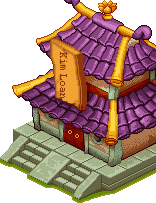
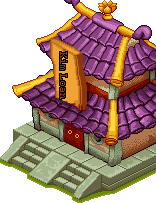
tsky: lưu tạm tiến độ T7/T8b
Claude-Session: https://claude.ai/code/session_01UHwqGer2W7xK9ARAi6GfrR

Changed region(s): [[0.359, 0.2365, 0.4359, 0.5025]]

diff --git a/tsky/patcher/Patch.java b/tsky/patcher/Patch.java
@@ -128,6 +128,17 @@ public class Patch {
             int w = want == null ? 0 : want[i];
             if (n != w || n > 0) expect(name + " " + CALLS[i][1], n, w);
         }
+        if (name.equals("Main/j")) {
+            patchMainJ(cn);
+            changed = true;
+        } else if (name.equals("Main/e")) {
+            patchShop(cn);
+            changed = true;
+        }
+        if (name.equals("Main/j") || name.equals("Main/e") || name.equals("rf/b")) {
+            int c = cacheConcat(cn);
+            if (c > 0) changed = true;
+        }
         return changed;
     }
 
@@ -239,6 +250,210 @@ public class Patch {
         if (op == Opcodes.LDC && ((LdcInsnNode) x).cst instanceof Integer) return (Integer) ((LdcInsnNode) x).cst;
         return Integer.MIN_VALUE;
     }
+
+    // ===================================================================== T7: bo cuc
+    static MethodInsnNode vhCall(String name, String desc) {
+        return new MethodInsnNode(Opcodes.INVOKESTATIC, VH, name, desc, false);
+    }
+
+    /** Doi cac call VH.drawString trong method (name, (Graphics)V) thanh VH.<to>; phai dung `want` lan. */
+    static void retarget(ClassNode cn, String mname, String to, int want) {
+        MethodNode m = method(cn, mname, "(L" + G + ";)V");
+        int n = 0;
+        for (AbstractInsnNode x = m.instructions.getFirst(); x != null; x = x.getNext()) {
+            if (x instanceof MethodInsnNode && x.getOpcode() == Opcodes.INVOKESTATIC) {
+                MethodInsnNode mi = (MethodInsnNode) x;
+                if (mi.owner.equals(VH) && mi.name.equals("drawString")) {
+                    mi.name = to;
+                    n++;
+                }
+            }
+        }
+        expect(cn.name + "." + mname + " drawString -> VH." + to, n, want);
+    }
+
+    static void patchMainJ(ClassNode cn) {
+        // phim mem phai ("Thoat"/"Quay lai", x = t - k.w*2 - 1) va "Tam dung" (x = t/2 - k.w): can theo do rong that
+        retarget(cn, "y", "drawRight", 1);
+        retarget(cn, "z", "drawRight", 1);
+        retarget(cn, "i", "drawMid", 1);
+
+        // menu chinh f(Graphics): (1) bo muc 2 ("Game khac", platformRequest quang cao), (2) mui ten theo nhan dang chon
+        MethodNode f = method(cn, "f", "(L" + G + ";)V");
+        InsnList pre = new InsnList();
+        pre.add(new VarInsnNode(Opcodes.ALOAD, 0));
+        pre.add(new VarInsnNode(Opcodes.ALOAD, 0));
+        pre.add(new FieldInsnNode(Opcodes.GETFIELD, "Main/j", "cR", "I"));
+        String[] busy = {"bS", "bX", "bC", "bk", "bs", "bL"};
+        for (int i = 0; i < busy.length; i++) {
+            pre.add(new FieldInsnNode(Opcodes.GETSTATIC, "Main/j", busy[i], "Z"));
+            if (i > 0) pre.add(new InsnNode(Opcodes.IOR));
+        }
+        pre.add(vhCall("menuSkip", "(II)I"));
+        pre.add(new FieldInsnNode(Opcodes.PUTFIELD, "Main/j", "cR", "I"));
+        f.instructions.insert(pre);
+        int arrows = 0;
+        for (AbstractInsnNode x = f.instructions.getFirst(); x != null; x = x.getNext()) {
+            if (x.getOpcode() == Opcodes.ALOAD && ((VarInsnNode) x).var == 2) {
+                AbstractInsnNode a1 = x.getNext();
+                AbstractInsnNode a2 = a1 == null ? null : a1.getNext();
+                AbstractInsnNode a3 = a2 == null ? null : a2.getNext();
+                if (a1 != null && a1.getOpcode() == Opcodes.ICONST_1 && a2 != null && a2.getOpcode() == Opcodes.AALOAD
+                        && a3 != null && a3.getOpcode() == Opcodes.INVOKESTATIC && ((MethodInsnNode) a3).name.equals("stringWidth")) {
+                    InsnList r = new InsnList();
+                    r.add(new VarInsnNode(Opcodes.ALOAD, 0));
+                    r.add(new FieldInsnNode(Opcodes.GETFIELD, "Main/j", "cR", "I"));
+                    f.instructions.insert(a1, r);
+                    f.instructions.remove(a1);
+                    arrows++;
+                }
+            }
+        }
+        expect("Main/j.f: mui ten menu theo nhan dang chon", arrows, 2);
+
+        // o mo ta cuon doc a(G,String,IIIII)V: cuon theo trang (hang + thay trang), khong cat nua dong
+        MethodNode a = method(cn, "a", "(L" + G + ";" + STR + "IIIII)V");
+        clearBody(a);
+        InsnList L = new InsnList();
+        LabelNode skip = new LabelNode();
+        // g=1 s=2 w=3 h=4 x=5 y=6 color=7
+        L.add(new VarInsnNode(Opcodes.ALOAD, 1));
+        L.add(new VarInsnNode(Opcodes.ILOAD, 5));
+        L.add(new VarInsnNode(Opcodes.ILOAD, 6));
+        L.add(new VarInsnNode(Opcodes.ILOAD, 3));
+        L.add(new VarInsnNode(Opcodes.ILOAD, 4));
+        L.add(new MethodInsnNode(Opcodes.INVOKEVIRTUAL, G, "setClip", "(IIII)V", false));
+        L.add(new FieldInsnNode(Opcodes.GETSTATIC, "Main/j", "bE", "Z"));
+        L.add(new JumpInsnNode(Opcodes.IFEQ, skip));
+        L.add(new VarInsnNode(Opcodes.ALOAD, 2));
+        L.add(new VarInsnNode(Opcodes.ILOAD, 3));
+        L.add(new MethodInsnNode(Opcodes.INVOKESTATIC, "rf/b", "a", "(" + STR + "I)V", false));
+        L.add(new InsnNode(Opcodes.ICONST_0));
+        L.add(new FieldInsnNode(Opcodes.PUTSTATIC, "Main/j", "bE", "Z"));
+        L.add(new InsnNode(Opcodes.ICONST_0));
+        L.add(new FieldInsnNode(Opcodes.PUTSTATIC, "Main/j", "cW", "I"));
+        L.add(new VarInsnNode(Opcodes.ALOAD, 0));
+        L.add(new InsnNode(Opcodes.ICONST_0));
+        L.add(new FieldInsnNode(Opcodes.PUTFIELD, "Main/j", "X", "I"));
+        L.add(skip);
+        L.add(new VarInsnNode(Opcodes.ALOAD, 0));
+        L.add(new VarInsnNode(Opcodes.ALOAD, 1));
+        L.add(new FieldInsnNode(Opcodes.GETSTATIC, "rf/b", "c", "[" + STR));
+        L.add(new FieldInsnNode(Opcodes.GETSTATIC, "rf/b", "e", "I"));
+        L.add(new VarInsnNode(Opcodes.ILOAD, 5));
+        L.add(new VarInsnNode(Opcodes.ILOAD, 6));
+        L.add(new VarInsnNode(Opcodes.ILOAD, 3));
+        L.add(new VarInsnNode(Opcodes.ILOAD, 4));
+        L.add(new VarInsnNode(Opcodes.ILOAD, 7));
+        L.add(new VarInsnNode(Opcodes.ALOAD, 0));
+        L.add(new FieldInsnNode(Opcodes.GETFIELD, "Main/j", "X", "I"));
+        L.add(vhCall("scroll", "(L" + G + ";[" + STR + "IIIIIII" + "I)I"));
+        L.add(new FieldInsnNode(Opcodes.PUTFIELD, "Main/j", "X", "I"));
+        L.add(new InsnNode(Opcodes.RETURN));
+        a.instructions = L;
+        log.println("BODY Main/j.a(G,String,IIIII) -> VH.scroll (cuon theo trang)");
+    }
+
+    /** Cua hang Main/e.a(G,String[][],...): cot so luong/gia dat sau ten DAI NHAT (khong phai ten hang dau). */
+    static void patchShop(ClassNode cn) {
+        MethodNode m = method(cn, "a", "(L" + G + ";[[" + STR + "IIIIIIZI)I");
+        int n = 0;
+        for (AbstractInsnNode x = m.instructions.getFirst(); x != null; x = x.getNext()) {
+            if (x.getOpcode() == Opcodes.ALOAD && ((VarInsnNode) x).var == 2) {
+                AbstractInsnNode a1 = x.getNext(), a2 = a1 == null ? null : a1.getNext(), a3 = a2 == null ? null : a2.getNext(),
+                        a4 = a3 == null ? null : a3.getNext(), a5 = a4 == null ? null : a4.getNext();
+                if (a1 != null && a1.getOpcode() == Opcodes.ICONST_0 && a2 != null && a2.getOpcode() == Opcodes.AALOAD
+                        && a3 != null && a3.getOpcode() == Opcodes.ICONST_0 && a4 != null && a4.getOpcode() == Opcodes.AALOAD
+                        && a5 != null && a5.getOpcode() == Opcodes.INVOKESTATIC && ((MethodInsnNode) a5).name.equals("stringWidth")) {
+                    InsnList r = new InsnList();
+                    r.add(new InsnNode(Opcodes.ICONST_0));
+                    r.add(vhCall("widest", "([[" + STR + "I)" + STR));
+                    m.instructions.insert(a4, r);
+                    m.instructions.remove(a1);
+                    m.instructions.remove(a2);
+                    m.instructions.remove(a3);
+                    m.instructions.remove(a4);
+                    n++;
+                }
+            }
+        }
+        expect("Main/e.a(String[][]): cot theo ten dai nhat", n, 1);
+    }
+
+    /**
+     * Noi chuoi toan String ("a" + b + "^") moi khung hinh: thay chuoi new StringBuffer().append(S)...toString() bang
+     * VH.catN(a,b,..,slot): neu cac phan tu giu nguyen (so sanh tham chieu) thi tra lai ket qua da noi (khong cap phat).
+     * Chi xu ly chuoi chi co append(String) voi doi so la 1 lenh don (LDC/ALOAD/GETSTATIC/this.field).
+     */
+    static int catSlots = 0;
+
+    static int cacheConcat(ClassNode cn) {
+        int total = 0;
+        String sb = "java/lang/StringBuffer";
+        for (MethodNode m : cn.methods) {
+            AbstractInsnNode x = m.instructions.getFirst();
+            while (x != null) {
+                AbstractInsnNode nx = x.getNext();
+                if (x.getOpcode() == Opcodes.NEW && ((TypeInsnNode) x).desc.equals(sb)) {
+                    AbstractInsnNode d = next(x), ini = d == null ? null : next(d);
+                    if (d != null && d.getOpcode() == Opcodes.DUP && ini != null && isCall(ini, Opcodes.INVOKESPECIAL, sb, "<init>", "()V")) {
+                        List<InsnList> args = new ArrayList<>();
+                        List<AbstractInsnNode> all = new ArrayList<>();
+                        AbstractInsnNode c = next(ini);
+                        boolean ok = true;
+                        AbstractInsnNode end = null;
+                        while (ok) {
+                            // doi so: 1 lenh (LDC String / ALOAD / GETSTATIC) hoac ALOAD0+GETFIELD
+                            List<AbstractInsnNode> g = new ArrayList<>();
+                            AbstractInsnNode a = c;
+                            if (a == null) { ok = false; break; }
+                            int op = a.getOpcode();
+                            if (op == Opcodes.LDC && ((LdcInsnNode) a).cst instanceof String) { g.add(a); c = next(a); }
+                            else if (op == Opcodes.ALOAD && ((VarInsnNode) a).var != 0) { g.add(a); c = next(a); }
+                            else if (op == Opcodes.GETSTATIC && ((FieldInsnNode) a).desc.equals(STR)) { g.add(a); c = next(a); }
+                            else if (op == Opcodes.ALOAD && ((VarInsnNode) a).var == 0 && next(a) != null && next(a).getOpcode() == Opcodes.GETFIELD
+                                    && ((FieldInsnNode) next(a)).desc.equals(STR)) { g.add(a); g.add(next(a)); c = next(next(a)); }
+                            else { ok = false; break; }
+                            if (c == null || !isCall(c, Opcodes.INVOKEVIRTUAL, sb, "append", "(" + STR + ")L" + sb + ";")) { ok = false; break; }
+                            InsnList il = new InsnList();
+                            for (AbstractInsnNode q : g) all.add(q);
+                            args.add(null);
+                            all.add(c);
+                            c = next(c);
+                            if (c != null && isCall(c, Opcodes.INVOKEVIRTUAL, sb, "toString", "()" + STR)) { end = c; break; }
+                        }
+                        if (ok && end != null && args.size() >= 2 && args.size() <= 4) {
+                            // gom lenh doi so (bo cac append)
+                            List<AbstractInsnNode> keep = new ArrayList<>();
+                            for (AbstractInsnNode q : all) if (!(q instanceof MethodInsnNode)) keep.add(q);
+                            InsnList rep = new InsnList();
+                            // doi so duoc giu nguyen thu tu; dem cho du 4 doi so
+                            for (AbstractInsnNode q : keep) {
+                                m.instructions.remove(q);
+                                rep.add(q);
+                            }
+                            for (int i = args.size(); i < 4; i++) rep.add(new InsnNode(Opcodes.ACONST_NULL));
+                            rep.add(new LdcInsnNode(catSlots++));
+                            rep.add(vhCall("cat", "(" + STR + STR + STR + STR + "I)" + STR));
+                            m.instructions.insertBefore(x, rep);
+                            // xoa new/dup/init + cac append + toString
+                            for (AbstractInsnNode q : all) if (q instanceof MethodInsnNode) m.instructions.remove(q);
+                            m.instructions.remove(end);
+                            m.instructions.remove(ini);
+                            m.instructions.remove(d);
+                            nx = x.getNext();
+                            m.instructions.remove(x);
+                            total++;
+                        }
+                    }
+                }
+                x = nx;
+            }
+        }
+        log.println("cacheConcat " + cn.name + ": " + total);
+        return total;
+    }
+
     // ===================================================================== Main/f: khoi dong (QD 9)
     /**
      * - c(): chi nap /Image/namp.png (VH.logo()) vao this.h, bo bg/logo0-5/logo51/52/menu thu nho.

diff --git a/tsky/scripts/make_img.py b/tsky/scripts/make_img.py
@@ -11,6 +11,7 @@ ROOT = os.path.dirname(os.path.dirname(os.path.abspath(__file__)))
 SRC = os.path.join(ROOT, 'work/x/Image')
 DST = os.path.join(ROOT, 'res_vi/Image')
 SIZE = 12
+OUTLINE = '#000000'   # viền đen 1px 8 hướng theo yêu cầu người dùng (đặt None để tắt)
 CHECK = []   # mọi nhãn để chạy pixeltext check
 
 class Img:
@@ -64,7 +65,7 @@ class Img:
     def text(self, box, txt, color, mode='metric', align='center', valign='center', dx=0, dy=0):
         CHECK.append(txt)
         r = R.draw(self.im, box, txt, size=SIZE, mode=mode, gap=1, align=align, valign=valign,
-                   dx=dx, dy=dy, fill=color + (255,) if len(color) == 3 else color, outline=None, clip=True)
+                   dx=dx, dy=dy, fill=color + (255,) if len(color) == 3 else color, outline=OUTLINE, outline_diag=True, clip=True)
         if r['overflow_x'] or r['overflow_y']:
             print('  TRÀN', self.name, txt, box, r)
         return r
@@ -72,7 +73,7 @@ class Img:
     def text_rot(self, box, txt, color, mode='metric'):
         """chữ xoay 90 độ theo chiều kim đồng hồ (biển dọc), canh giữa trong box"""
         CHECK.append(txt)
-        t = R.render(txt, SIZE, mode, 1, trim=True, fill=color + (255,))
+        t = R.render(txt, SIZE, mode, 1, trim=True, fill=color + (255,), outline=OUTLINE, outline_diag=True)
         t = t.rotate(-90, expand=True)
         x0, y0, w, h = box
         if t.width > w or t.height > h:
@@ -155,7 +156,7 @@ def main():
     done(im)
     im = Img('ui_fight_mid')
     xs = [0, 29, 58, 86, 115, 144, 173]
-    for i, (t, c) in enumerate([('Thay',(31,131,255)),('Chạy',(54,143,0)),('Sủng',(31,131,255)),
+    for i, (t, c) in enumerate([('Đổi',(31,131,255)),('Chạy',(54,143,0)),('Sủng',(31,131,255)),
                                 ('Vật',(31,131,255)),('Đánh',(31,131,255)),('Phá',(255,121,1))]):
         b = (xs[i], 0, xs[i+1]-xs[i], 28); im.clear(b); im.text(b, t, c)
     done(im)

diff --git a/tsky/scripts/t7_measure.py b/tsky/scripts/t7_measure.py
@@ -1,0 +1,21 @@
+#!/usr/bin/env python3
+"""T7: do do rong px (font f12) cua chuoi dich. Dung: t7_measure.py <tsv> [loc]"""
+import struct, sys, csv
+def load(path='work/tools/fonts/f12.bin'):
+    b = open(path, 'rb').read()
+    n = struct.unpack('>H', b[:2])[0]
+    cs = b[2:2+n].decode('utf-8')
+    h = b[2+n]
+    w = b[3+n:3+n+len(cs)]
+    return {c: w[i] for i, c in enumerate(cs)}, h
+W, H = load()
+def sw(s):
+    return sum(W.get(c, 12 if ord(c) >= 0x2E80 else W.get(' ', 4)) for c in s)
+if __name__ == '__main__':
+    rows = list(csv.reader(open(sys.argv[1], encoding='utf-8'), delimiter='\t', quoting=csv.QUOTE_NONE))
+    hdr = rows[0]
+    for r in rows[1:]:
+        f = r[1]
+        if len(sys.argv) > 2 and sys.argv[2] not in f: continue
+        d = r[4]
+        print(r[0], f, r[2], max(sw(x) for x in d.replace('^','\n').split('\n')) if d else 0, d[:60])
